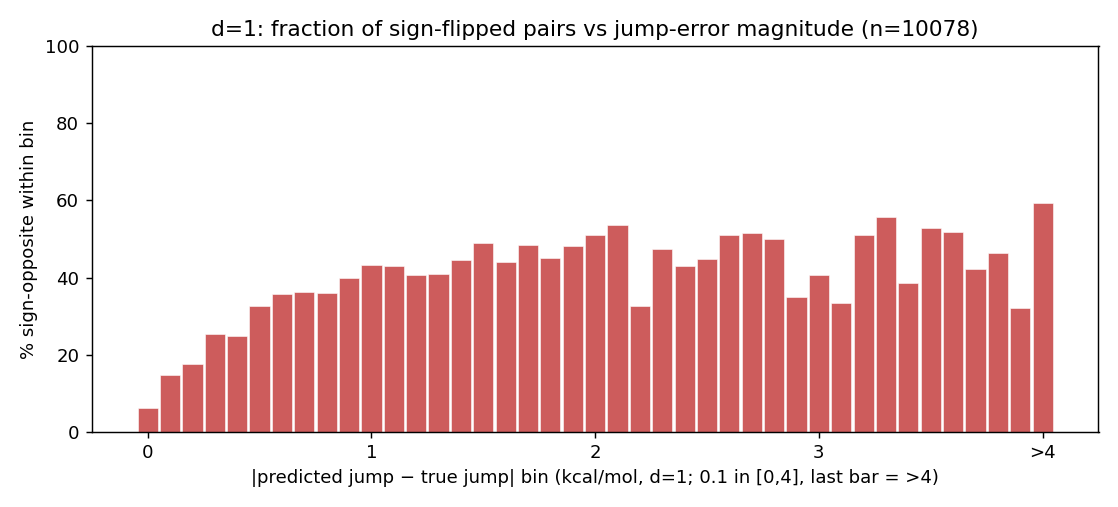
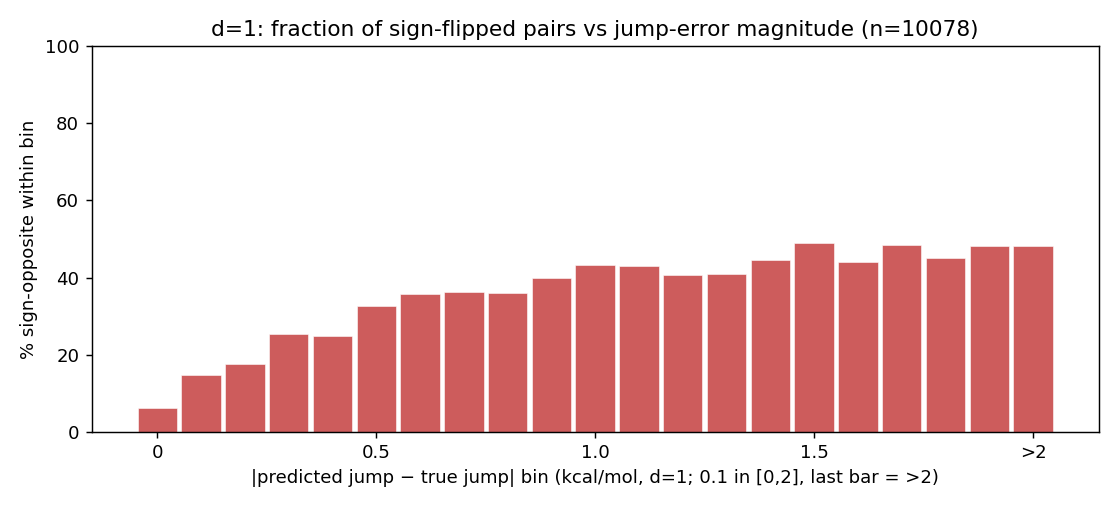
mutation-cliff §4.2: both d=1 figures (error histogram + sign-flip-by-error) bins -> [0,2) step 0.1 + >2

diff --git a/reproduce/mutation_cliff_viz.py b/reproduce/mutation_cliff_viz.py
@@ -229,17 +229,17 @@ print(ext[["PDB","site","d","ddG_A","ddG_B","true_jump","pred_jump","diff_percen
 d1e=P[P.d==1].copy(); d1e["jerr"]=(d1e.pred_jump-d1e.true_jump).abs()
 print(f"\n=== d=1 |pred_jump−true_jump| 分布: n={len(d1e)} range[{d1e.jerr.min():.2f},{d1e.jerr.max():.2f}] "
       f"mean={d1e.jerr.mean():.2f} median={d1e.jerr.median():.2f} p90={d1e.jerr.quantile(.9):.2f} p99={d1e.jerr.quantile(.99):.2f} ===")
-# 分桶:[0,4) step=0.1(40 桶)+ 一个 >4 桶;y 轴为占比(%)
-hedges=[round(0.1*i,1) for i in range(41)]+[1e9]
+# 分桶:[0,2) step=0.1(20 桶)+ 一个 >2 桶;y 轴为占比(%)
+hedges=[round(0.1*i,1) for i in range(21)]+[1e9]
 hcnt=np.histogram(d1e.jerr.values,bins=hedges)[0]
 hpct=100*hcnt/len(d1e)
 hxs=np.arange(len(hpct))
-fig,ax=plt.subplots(figsize=(8.6,3.9))
+fig,ax=plt.subplots(figsize=(7.6,3.9))
 ax.bar(hxs,hpct,width=0.9,color="steelblue",edgecolor="white",linewidth=0.3)
-ax.set_xticks([0,10,20,30,40]); ax.set_xticklabels(["0","1","2","3",">4"])
-ax.set_xlabel("|predicted jump − true jump| (kcal/mol, d=1; bin=0.1 in [0,4], last bar = >4)")
+ax.set_xticks([0,5,10,15,20]); ax.set_xticklabels(["0","0.5","1.0","1.5",">2"])
+ax.set_xlabel("|predicted jump − true jump| (kcal/mol, d=1; bin=0.1 in [0,2], last bar = >2)")
 ax.set_ylabel("percentage of d=1 pairs (%)")
-ax.set_title(f"d=1 jump-prediction error (n={len(d1e)}; median={d1e.jerr.median():.2f}, p90={d1e.jerr.quantile(.9):.2f}, >4={100*(d1e.jerr>4).mean():.1f}%)")
+ax.set_title(f"d=1 jump-prediction error (n={len(d1e)}; median={d1e.jerr.median():.2f}, p90={d1e.jerr.quantile(.9):.2f}, >2={100*(d1e.jerr>2).mean():.1f}%)")
 fig.tight_layout(); fig.savefig(os.path.join(OUT,"d1_jumperr_hist.png")); plt.close(fig)
 
 # 同一分桶({0~4 by 0.1}∪{>4},按 |pred−true| 误差):每桶内 真值/预测跳变 符号相反的占比
@@ -252,8 +252,8 @@ for i in range(len(flip)):
     if fn[i]: print(f"  {hedges[i]:.1f}{'+' if i==len(flip)-1 else f'–{hedges[i+1]:.1f}'}: n={fn[i]} flip={flip[i]:.0f}%")
 fig,ax=plt.subplots(figsize=(8.6,3.9))
 ax.bar(hxs,flip,width=0.9,color="indianred",edgecolor="white",linewidth=0.3)
-ax.set_xticks([0,10,20,30,40]); ax.set_xticklabels(["0","1","2","3",">4"])
-ax.set_xlabel("|predicted jump − true jump| bin (kcal/mol, d=1; 0.1 in [0,4], last bar = >4)")
+ax.set_xticks([0,5,10,15,20]); ax.set_xticklabels(["0","0.5","1.0","1.5",">2"])
+ax.set_xlabel("|predicted jump − true jump| bin (kcal/mol, d=1; 0.1 in [0,2], last bar = >2)")
 ax.set_ylabel("% sign-opposite within bin"); ax.set_ylim(0,100)
 ax.set_title(f"d=1: fraction of sign-flipped pairs vs jump-error magnitude (n={len(d1e)})")
 fig.tight_layout(); fig.savefig(os.path.join(OUT,"d1_signflip_by_err.png")); plt.close(fig)

diff --git a/reproduce/RESEARCH_MOTIVATION_mutation_cliff.md b/reproduce/RESEARCH_MOTIVATION_mutation_cliff.md
@@ -139,12 +139,12 @@
 **d=1 全体的预测跳变误差分布**: 在所有 d=1 对(n=10078)上,`|预测跳变 − 真值跳变|` 的范围是 **[0.00, 14.04] kcal/mol**,
 mean 1.19 / median 0.85 / p90 2.61 / p99 5.83;**32.7% 的对 <0.5(预测准),但 17.3% >2、3.3% >4(严重失配)**。
 分布呈**长右尾**——多数 d=1 对预测尚可,但拖着一条粗重的"严重失配"尾巴(即上面"不正常组"那类 cliff)。
-(下图: 误差按 [0,4) 间隔 0.1 分桶、>4 聚成最后一根柱;纵轴为占全部 d=1 对的百分比,故 >4 那根柱即 3.3%。)
+(下图: 误差按 [0,2) 间隔 0.1 分桶、>2 聚成最后一根柱;纵轴为占全部 d=1 对的百分比,故 >2 那根柱即 17.3%。)
 
 <img src="mutation_analysis/d1_jumperr_hist.png" width="520">
 
 **同一分桶下,每个误差桶内"真值跳变 vs 预测跳变 符号相反"的占比**: 误差越大,符号判反的比例越高——
-从最小误差桶([0,0.1))的 **6%** 升到误差 ~1.5 起的 **~45–50%**,>4 误差桶达 **59%**。说明**大误差不只是幅度压扁,
+从最小误差桶([0,0.1))的 **6%** 升到误差 ~1.5 起的 **~45–50%**,>2 误差桶为 **48%**。说明**大误差不只是幅度压扁,
 相当一部分直接把方向也判反**(尤其误差 >1.5 时近半数是符号相反)。
 
 <img src="mutation_analysis/d1_signflip_by_err.png" width="520">
